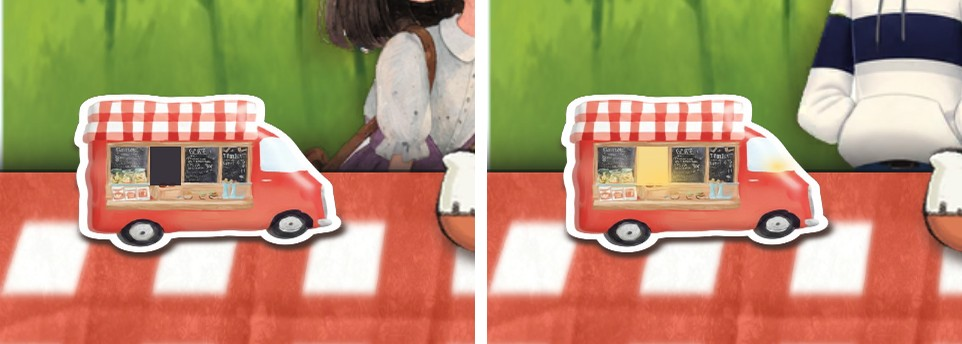
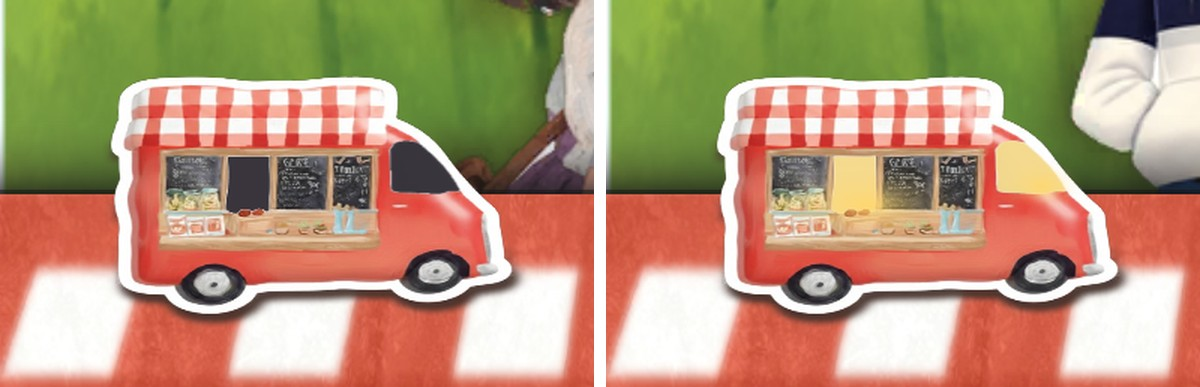
Truck: both windows change together through a mask of the glass itself (no square; the tomatoes and jar stay in front); report: demos of grass in front of the yoga lady, liner dropped (owner, 15 November)

diff --git a/Docs/tools/report_page/index.html b/Docs/tools/report_page/index.html
@@ -80,10 +80,10 @@ h3 small{font-weight:600;color:var(--soft);font-size:13px;margin-left:6px}
 <div class="grid">
 <div class="who p1"><h3>You</h3>
 <p><b>Test build 26.11.21 (31)</b> on TestFlight: your test runs.</p>
-<p><b>Check the truck's window light</b> (Current): the window is now dark when off.</p>
-<p><b>Draw the table liner</b> when you like; the template is in your iCloud art folder.</p>
+<p><b>Check the truck</b> (Current): both windows change together, in the glass's own shape.</p>
+<p><b>Pick how grass goes in front of the yoga lady</b> (Current): three demos for chapter 1, one for chapter 2.</p>
 <p><b>Send your What's New words</b> for the next release.</p></div>
-<div class="who p2"><h3>Me</h3><p>Put your liner in when it arrives. No build and nothing to Apple before your word.</p></div>
+<div class="who p2"><h3>Me</h3><p>Build the front layer you pick. No build and nothing to Apple before your word.</p></div>
 </div>
 
 <h2 id="qa"><span class="n">2</span>Q&amp;A</h2>
@@ -93,9 +93,10 @@ h3 small{font-weight:600;color:var(--soft);font-size:13px;margin-left:6px}
 
 <div class="card">
 <p style="margin-top:0"><b>Truck: no wiggle, and a window light with three states, 15 November.</b></p>
-<figure><img src="truck_light.jpg" alt="The truck with its window dark, and with the window lit"><figcaption>Left: kitchen idle by day, the window dark. Right: the window lit, as it shows while blinking and at night.</figcaption></figure>
+<figure><img src="truck_light.jpg" alt="The truck with its window dark, and with the window lit"><figcaption>Left: kitchen idle by day, both windows dark. Right: both lit, as they show while blinking and at night.</figcaption></figure>
 <ul>
-<li><b>Off:</b> by day, when the kitchen is making nothing. The white window turns dark, like the blackboards beside it (your words, today).</li>
+<li><b>Off:</b> by day, when the kitchen is making nothing. Both windows, the side window and the windshield, turn dark.</li>
+<li><b>The shape:</b> the dark and the light follow the glass itself, cut from the truck's own picture, so the tomatoes and the jar in front of the side window stay in front. No square.</li>
 <li><b>Blinking:</b> while the kitchen cooks: an oven baking, the blender or the waffle machine running. By day and by night, a little faster than once a second.</li>
 <li><b>Warm yellow, steady:</b> from dusk into night. This light was already there; it now gives way to the blink while something cooks.</li>
 <li>Checked in the editor: the truck stands still; the light read off, then swung between dim and bright during an 8-second bread bake, and was steady with the night forced.</li>
@@ -108,16 +109,28 @@ h3 small{font-weight:600;color:var(--soft);font-size:13px;margin-left:6px}
 </div>
 
 <div class="card">
-<p style="margin-top:0"><b>Your table liner: size and template, 15 November.</b> The canvas is upright now: <b>1080 x 1920 pixels</b>, the same canvas as your background paintings. Draw the liner as one more layer over your background and export that layer alone, see-through, one PNG per chapter.</p>
-<figure><img src="liner_template.jpg" alt="The guide's middle part alone, over the chapter 1 background with the grass sample, and over the chapter 2 background with the plants sample"><figcaption>The middle of the canvas. Left: the guide alone. Middle and right: the guide over your two backgrounds, with the sample liners.</figcaption></figure>
+<p style="margin-top:0"><b>A layer in front of the yoga lady: how, and demos, 15 November.</b> The table liner is dropped. Nothing is changed in the game; the demos were shown live in the editor and are not saved.</p>
+<p style="margin:8px 0 4px"><b>How it works:</b></p>
 <ul>
-<li><b>In your iCloud folder "FoodTruckCafe art":</b> table_liner_guide.png (the lines; put it on top while you draw, hide it before you export) and two samples to paint over, table_liner_sample_ch1.png and table_liner_sample_ch2.png. All three are 1080 x 1920.</li>
-<li><b>Table edge:</b> the middle line of the canvas, 960 pixels from the top. The table covers everything below it. Paint 40 pixels below the line solid, and leave the rest of the lower half empty.</li>
-<li><b>Height:</b> in the middle keep it under the green line, about 100 pixels above the table edge (the customers' hips). At the sides it may go up to the brown line, about 220 pixels above.</li>
-<li><b>Paint:</b> solid shapes, day colours only, no shadow onto the table. The truck, hen and jar stand in front of it; customers and the yoga lady behind.</li>
-<li><b>In the game</b> it is laid over the screen exactly like your background, so it sits on the background the way you drew it. I cut away the empty part myself.</li>
-<li><b>When done:</b> save liner_ch1.png and liner_ch2.png to your "Updates" folder and tell me.</li>
+<li>The front layer is your background painting's own grass, cut out along its upper edge and drawn a second time, over her, at exactly the same place. Where she is not, the picture looks as it always did. Where she is, the grass covers her.</li>
+<li>Drawing order: background, yoga lady, front grass, customers, table.</li>
+<li>She has to sit down in the grass for it to reach her, so in the demos she sits lower than now.</li>
+<li>No new art is needed. If you would rather paint the front grass yourself, it is one see-through PNG on your background's canvas (1080 x 1920) with only the grass on it.</li>
 </ul>
+<figure><img src="yoga_front_ch1.jpg" alt="Chapter 1: now, and three demos with grass in front of the yoga lady"><figcaption><b>Now:</b> she sits on top of the grass. <b>A:</b> by the tree, lower, the near grass in front of her. <b>B:</b> the same, plus the tall blades by the tree in front of her. <b>C:</b> in the middle of the lawn, the near grass in front.</figcaption></figure>
+<ul class="checks">
+<li><label><input type="checkbox" data-id="cur.yfront1.a"> Chapter 1: A</label></li>
+<li><label><input type="checkbox" data-id="cur.yfront1.b"> Chapter 1: B</label></li>
+<li><label><input type="checkbox" data-id="cur.yfront1.c"> Chapter 1: C</label></li>
+<li><label><input type="checkbox" data-id="cur.yfront1.mine"> I will paint the front grass myself</label></li>
+<li><label><input type="checkbox" data-id="cur.yfront1.redo"> None, I will say what</label></li>
+</ul>
+<figure><img src="yoga_front_ch2.jpg" alt="Chapter 2: the float on the water now, and with the water in front of its lower edge"><figcaption>Chapter 2, the same idea with the sea. <b>Now:</b> the float lies on the water. <b>A:</b> the water below a wavy line is in front, so the float sits in the sea.</figcaption></figure>
+<ul class="checks">
+<li><label><input type="checkbox" data-id="cur.yfront2.a"> Chapter 2: A</label></li>
+<li><label><input type="checkbox" data-id="cur.yfront2.redo"> Leave chapter 2 as it is</label></li>
+</ul>
+<p style="margin:8px 0 4px"><b>What I see in the demos:</b> the cut grass is soft, so her mat shows through it in places; I can make it more solid. A customer or an order bubble can still stand in front of her, as now.</p>
 </div>
 
 <h2 id="mvp"><span class="n">4</span>MVP</h2>
@@ -142,9 +155,9 @@ h3 small{font-weight:600;color:var(--soft);font-size:13px;margin-left:6px}
 </ul>
 <p style="margin:10px 0 4px"><b>Done today, waiting for your check in Current:</b></p>
 <ul>
-<li><b>Truck:</b> no wiggle; the window is dark when off, blinks while the kitchen cooks, and is warm yellow at night.</li>
+<li><b>Truck:</b> no wiggle; both windows are dark when off, blink while the kitchen cooks, and are warm yellow at night.</li>
 </ul>
-<p style="margin:10px 0 4px"><b>Coming from you:</b> the liner picture between customers and table (template in Current).</p>
+<p style="margin:10px 0 4px"><b>Not decided, so not in:</b> grass in front of the yoga lady (demos in Current).</p>
 <p style="margin:10px 0 4px"><b>Still needed for the release:</b> your What's New words, a new version number (26.11.21 is used), and your word to submit.</p>
 </div>
 

diff --git a/Docs/tools/autoplay/yoga_front_demo.py b/Docs/tools/autoplay/yoga_front_demo.py
@@ -1,0 +1,43 @@
+"""Demo: a layer in front of the yoga lady and behind the customers (15 November 2026). She is shown at a given mat spot,
+and a front layer (a full-canvas picture from Store/yoga_front_layer_2026-11-15/out) is stretched over the screen like
+the background, between her and the customers. Nothing is saved in the project.
+Usage: yoga_front_demo.py <chapter> tag:layer|none:matX:matY:pose ..."""
+import sys, time, re
+sys.path.insert(0, "/Users/betzthebest/Desktop/Sept/FoodTruckCafe/Docs/tools")
+import unity_mcp as U
[1 lines of base64/hex data omitted]
+O = "/Users/betzthebest/Desktop/Sept/Store/yoga_front_layer_2026-11-15/out/"
+def res(t):
+    m = re.search(r'"result":"(.*?)","compiler"', t, re.S); return m.group(1) if m else t[-700:]
+def ex(code): return res(U.call("execute_code", {"action": "execute", "code": code}))
+ch = sys.argv[1]
+U.call("manage_editor", {"action": "stop"}); time.sleep(2)
+U.call("manage_editor", {"action": "play"}); time.sleep(9)
+print(ex(open("/tmp/ftc/setup_day1.cs").read()))
+print(ex('var sm = SessionManager.Instance; var s = sm.GetCurrentSession(); s.levelStars = new System.Collections.Generic.List<int> { 3, 3, 3, 3, 3 }; ' + ('s.levelsCompleted = 12; s.tutorial2Seen = true; ' if ch == "2" else '') + 'return "hired " + sm.BuyWithStars(YogaHire.ItemName, YogaHire.StarPrice);'))
+print(ex(open(A + "goday.cs").read().replace("DAY", "12" if ch == "2" else "0"))); time.sleep(8)
+for _ in range(12):
+    r = ex(open(A + "tutstep.cs").read())
+    if r == "T|none": break
+    time.sleep(1.0)
+print(ex(open(A + "startday.cs").read())); time.sleep(6.5)
+ex('Time.timeScale = 0.02f; return "slow";')
+SHOW = '''var old = GameObject.Find("YogaFrontDemo"); if (old != null) UnityEngine.Object.DestroyImmediate(old);
+var y = UnityEngine.Object.FindObjectOfType<YogaHire>(); if (y == null) return "no yoga lady";
+y.StopAllCoroutines(); var F = System.Reflection.BindingFlags.NonPublic | System.Reflection.BindingFlags.Instance;
+var scale = y.transform.localScale.x; var pos = new Vector3(MXf, MYf + 0.715f * scale, 0.5f);
+y.transform.position = pos; y.transform.localRotation = Quaternion.identity; typeof(YogaHire).GetField("home", F).SetValue(y, pos);
+var fr = y.transform.Find("Front").GetComponent<SpriteRenderer>(); fr.sprite = Resources.Load<Sprite>("Yoga/sit_POSE"); fr.color = Color.white;
+var layer = "LAYER"; if (layer == "none") return "shown, no front layer";
+var tex = new Texture2D(2, 2, TextureFormat.RGBA32, false); tex.LoadImage(System.IO.File.ReadAllBytes("PATH")); tex.wrapMode = TextureWrapMode.Clamp;
+var sp = Sprite.Create(tex, new Rect(0, 0, tex.width, tex.height), new Vector2(0.5f, 0.5f), tex.height / 10f);
+var cam = Camera.main; var go = new GameObject("YogaFrontDemo"); go.transform.position = new Vector3(0f, 0f, 0.25f);
+go.transform.localScale = new Vector3(cam.orthographicSize * 2f * cam.aspect / (tex.width / (tex.height / 10f)), 1f, 1f);
+var sr = go.AddComponent<SpriteRenderer>(); sr.sprite = sp; sr.sortingLayerName = "Default"; sr.sortingOrder = 0;
+return "shown with " + layer;'''
+for a in sys.argv[2:]:
+    tag, layer, mx, my, pose = a.split(":")
+    print(tag, ex(SHOW.replace("MX", mx).replace("MY", my).replace("POSE", pose).replace("LAYER", layer).replace("PATH", O + layer + ".png"))); time.sleep(0.7)
+    ex('ScreenCapture.CaptureScreenshot("/tmp/ftc/popframes/yf_ch%s_%s.png"); return "snap";' % (ch, tag)); time.sleep(1.2)
+ex('Time.timeScale = 1f; return "speed";')
+U.call("manage_editor", {"action": "stop"})

diff --git a/Assets/Scripts/LevelControl/DayNightTint.cs b/Assets/Scripts/LevelControl/DayNightTint.cs
@@ -286,11 +286,17 @@ public class DayNightTint : MonoBehaviour
         var trt = truck != null ? truck.GetComponent<RectTransform>() : null;
         if (trt != null)
         {
-            // the hatch's white window pane itself (the button's picture is decor/kit1_table.png, 419 x 406; its white
-            // window is x 124 to 166, y 137 to 224): dark while the light is off, warm when it is on (owner,
-            // 15 November 2026: "when truck is off, i want that white window to become dark color"); under the two glows
-            truckPane = MakeAnchoredImage(trt, "WindowPane", null, new Vector2(0.293f, 0.443f), new Vector2(0.402f, 0.666f));
-            truckPane.preserveAspect = false; truckPane.color = PaneDark;
+            // the two window panes themselves, the side window and the windshield, as one picture over the whole
+            // button: Resources/UI/truck_windows_mask is the button's own picture (decor/kit1_table.png) with only the
+            // glass kept, so the tomatoes and the jar in front of the side window stay in front (owner, 15 November
+            // 2026: "I want both window to change at the same time ... I don't want it to be a square"). Dark while
+            // the light is off, warm when it is on; it lies under the two glows. Store/ui/truck_windows_2026-11-15.
+            var glass = Resources.Load<Sprite>("UI/truck_windows_mask");
+            if (glass != null)
+            {
+                truckPane = MakeAnchoredImage(trt, "WindowPane", glass, Vector2.zero, Vector2.one);
+                truckPane.preserveAspect = false; truckPane.color = PaneDark;
+            }
             truckLights.Add(MakeAnchoredImage(trt, "WindowLight", StarSprite(), new Vector2(0.06f, 0.26f), new Vector2(0.70f, 0.70f)));
             truckLights.Add(MakeAnchoredImage(trt, "WindowLight", StarSprite(), new Vector2(0.66f, 0.42f), new Vector2(0.90f, 0.68f)));
             foreach (var l in truckLights) { l.preserveAspect = false; l.color = new Color(1f, 0.86f, 0.5f, 0f); }
